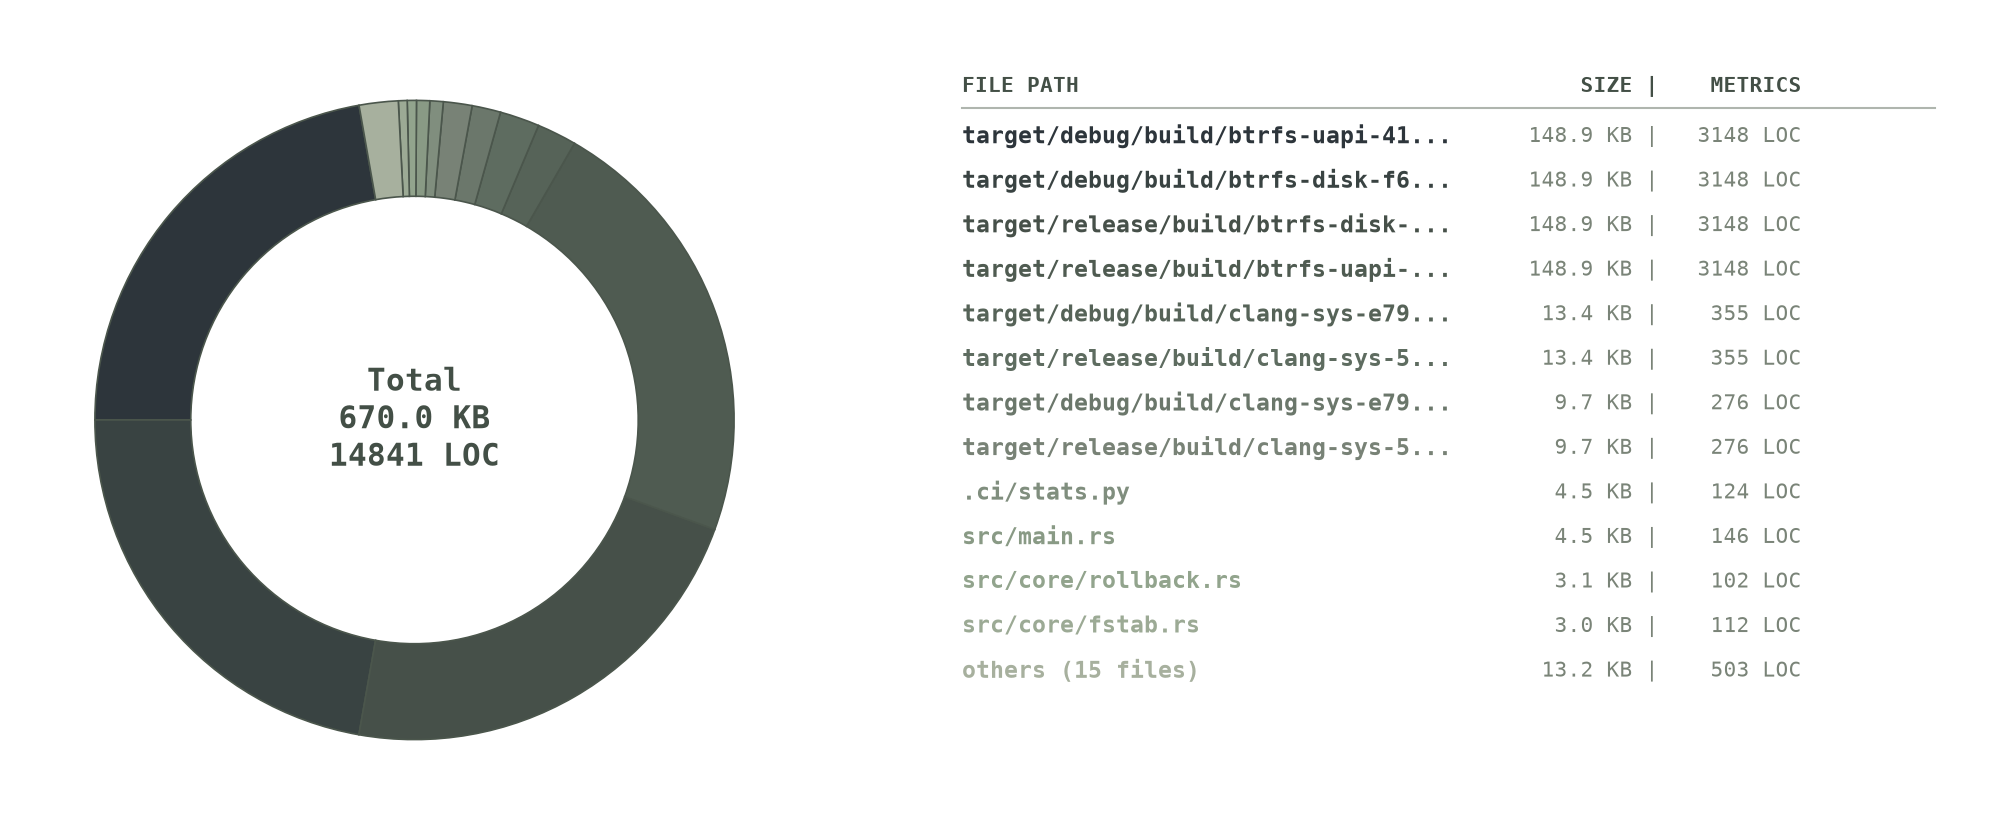
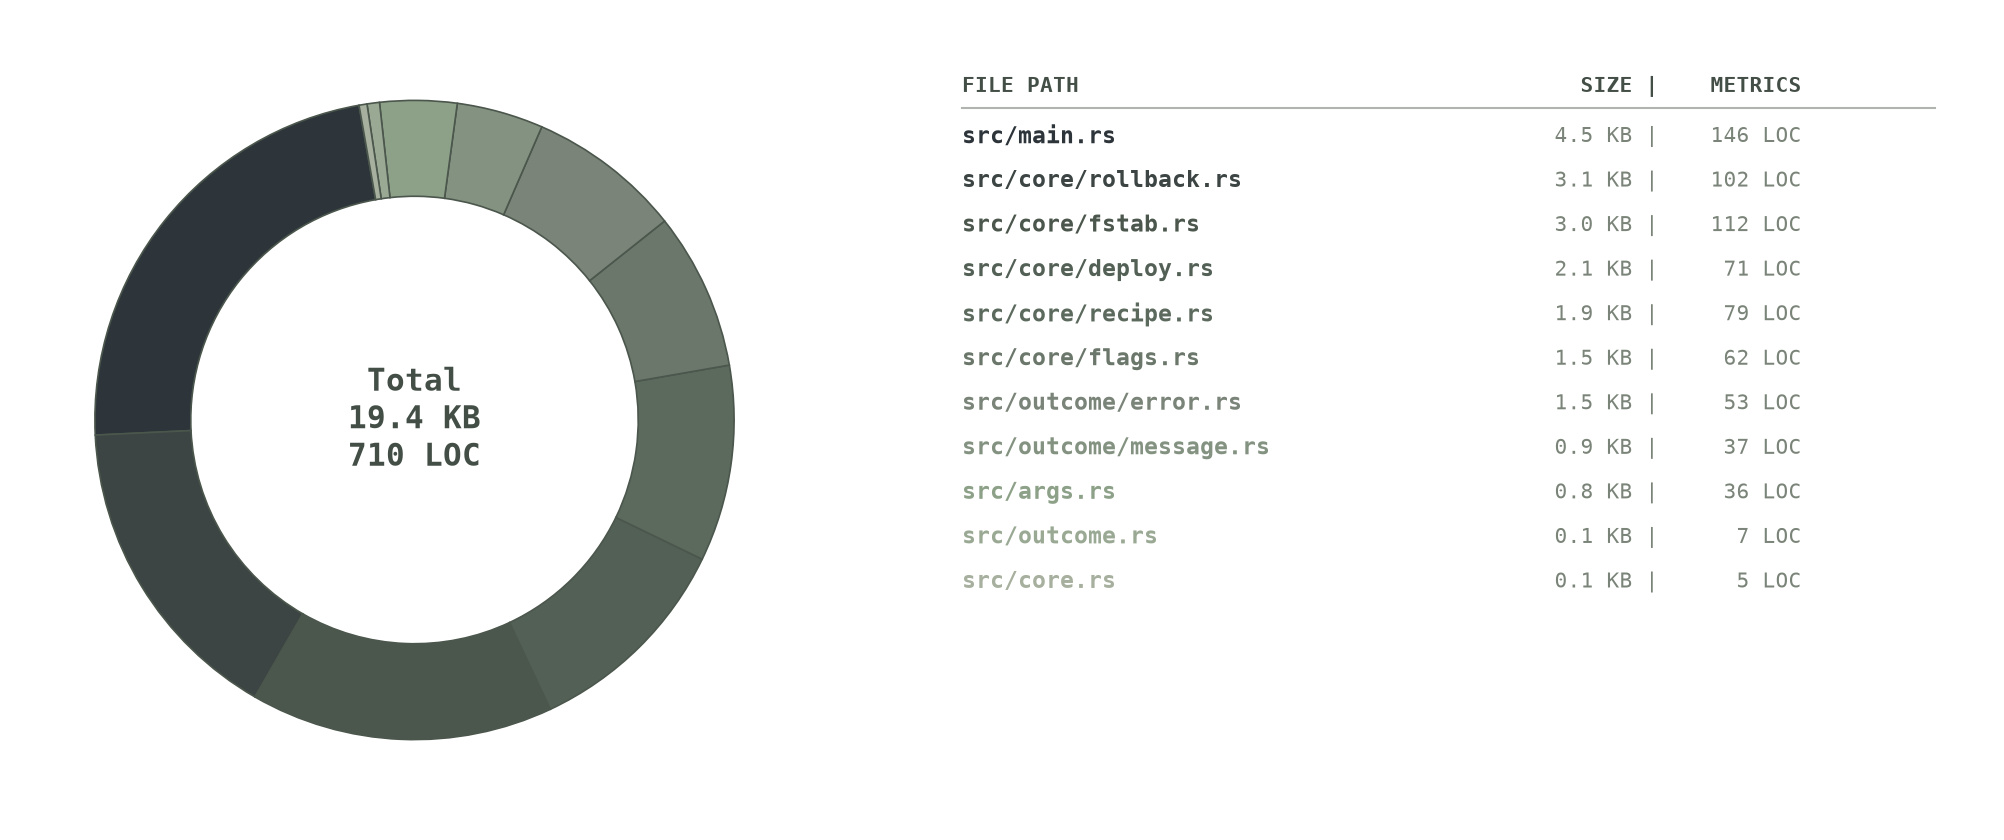
stats probably

diff --git a/.ci/stats.py b/.ci/stats.py
@@ -39,11 +39,17 @@ class Analyzer:
 
     def scan(self, exts: Set[str], out: str) -> Dict[str, Metrics]:
         data = {}
+        ignored_parts = {"target", ".git", ".ci", ".venv"}
+
         for p in self.root.rglob("*"):
             if p.is_file() and p.suffix.lower() in exts and p.name != out:
+                if any(part in p.parts for part in ignored_parts):
+                    continue
+                    
                 loc = self._parse(p)
                 data[str(p.relative_to(self.root))] = Metrics(p.stat().st_size, loc)
         return data
+
 
 class Chart:
     def __init__(self):
